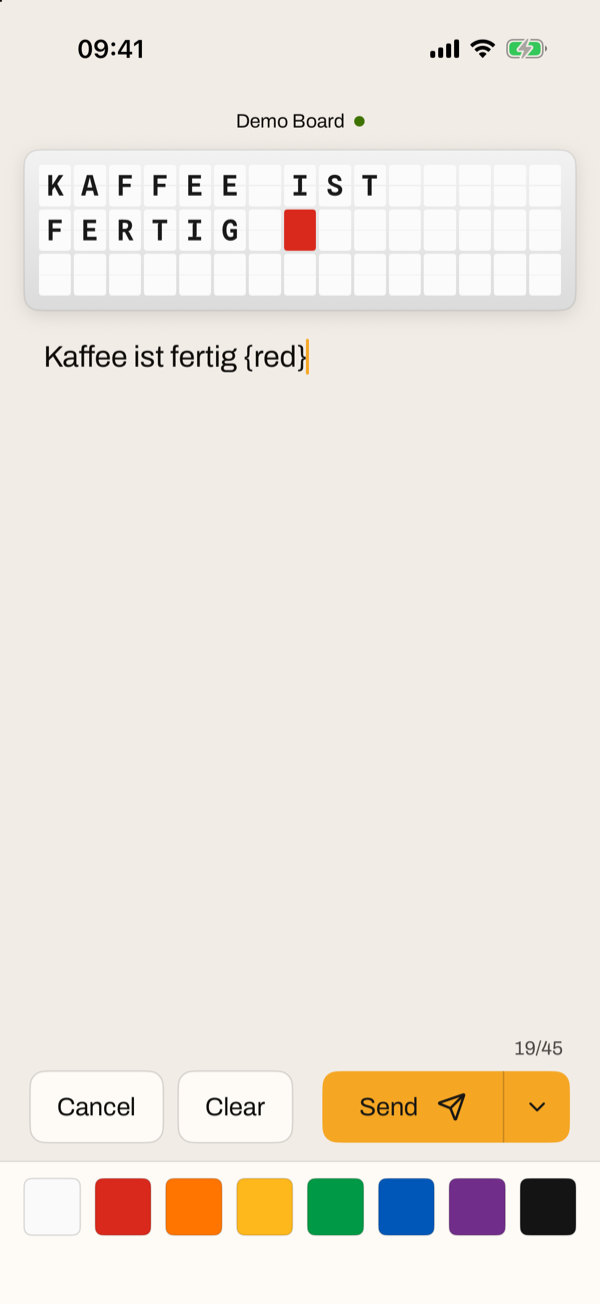
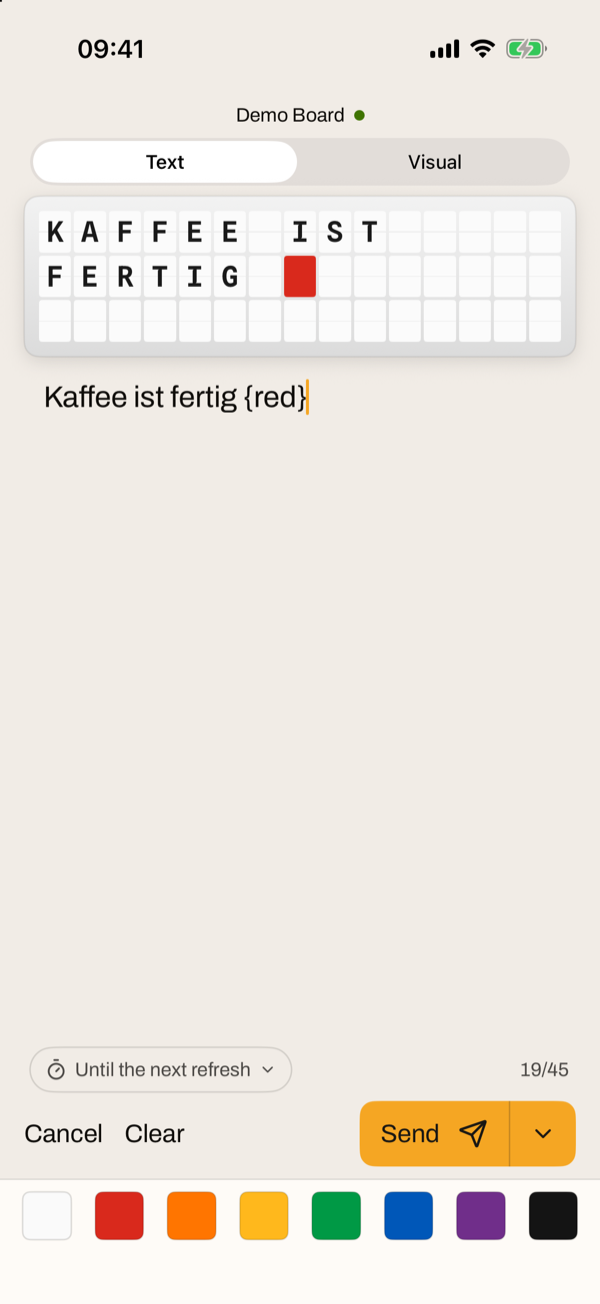
Compose fits above the keyboard: one row for Cancel, Clear and Send, how long it shows beside the count
The board keeps its size, the text gives way; the header and the colours
are tighter.

Claude-Session: https://claude.ai/code/session_01FXXeyGX9nkbXjdAycGNCsJ

Changed region(s): [[0.06, 0.0613, 0.96, 0.3374], [0.03, 0.7975, 0.96, 0.9509], [0.03, 0.9202, 0.06, 0.9509]]

diff --git a/FiestaBoard/ComposeView.swift b/FiestaBoard/ComposeView.swift
@@ -108,7 +108,7 @@ struct ComposeView: View {
             }
             .font(Style.font(.footnote))
             .foregroundStyle(Style.ink)
-            .padding(.top, 12)
+            .padding(.top, 8)
 
             Picker("Mode", selection: Binding(get: { mode }, set: switchMode)) {
                 Text("Text").tag(Mode.text)
@@ -116,7 +116,7 @@ struct ComposeView: View {
             }
             .pickerStyle(.segmented)
             .padding(.horizontal, 20)
-            .padding(.vertical, 12)
+            .padding(.vertical, 8)
 
             switch mode {
             case .text:
@@ -125,31 +125,17 @@ struct ComposeView: View {
                 visualEditor
             }
 
-            durationChoice
-                .padding(.horizontal, 20)
-                .padding(.bottom, 10)
-
-            // In one row where the words fit, else Send across the width and the other two below it:
-            // German and French words are longer than English ones, and text can be larger.
-            ViewThatFits(in: .horizontal) {
-                HStack(spacing: 10) {
-                    cancelButton(wide: false)
-                    clearButton(wide: false)
-                    Spacer(minLength: 0)
-                    sendButton
-                }
-                VStack(spacing: 10) {
-                    sendButton
-                    HStack(spacing: 10) {
-                        cancelButton(wide: true)
-                        clearButton(wide: true)
-                    }
-                }
+            // One row, as little room as there is above the keyboard: the board and the text need it.
+            HStack(spacing: 14) {
+                cancelButton.fixedSize()
+                clearButton.fixedSize()
+                Spacer(minLength: 0)
+                sendButton
             }
             .lineLimit(1)
             .dynamicTypeSize(...DynamicTypeSize.xxLarge)
-            .padding(.horizontal, 20)
-            .padding(.bottom, 12)
+            .padding(.horizontal, 16)
+            .padding(.bottom, 8)
 
             paletteBar
         }
@@ -172,7 +158,9 @@ struct ComposeView: View {
         let laid = Layout.grid(text, rows: shape.rows, cols: shape.cols)
         BoardView(characters: laid.grid, rows: shape.rows, cols: shape.cols, heart: shape.heart, white: shape.heart, led: shape.led)
             .padding(.horizontal)
-            .padding(.bottom, 12)
+            .padding(.bottom, 8)
+            // Its full size, the keyboard up or not: the text below gives way.
+            .layoutPriority(1)
 
         ZStack(alignment: .topLeading) {
             if text.isEmpty {
@@ -190,8 +178,10 @@ struct ComposeView: View {
         }
         .font(Style.font(.title3))
         .padding(.horizontal, 24)
+        .frame(minHeight: 56)
 
-        HStack {
+        HStack(spacing: 10) {
+            durationChoice
             if laid.overflow {
                 Label("Too long: the end is cut off", lucide: "triangle-alert")
                     .foregroundStyle(.orange)
@@ -199,15 +189,16 @@ struct ComposeView: View {
                 Label(problem, lucide: "circle-alert")
                     .foregroundStyle(.red)
             }
-            Spacer()
+            Spacer(minLength: 0)
             Text("\(Layout.tiles(of: text.replacingOccurrences(of: "\n", with: "")).count)/\(shape.rows * shape.cols)")
                 .monospacedDigit()
                 .foregroundStyle(Style.secondary)
         }
         .font(Style.font(.footnote))
+        .lineLimit(1)
         .dynamicTypeSize(...DynamicTypeSize.accessibility1)
-        .padding(.horizontal, 24)
-        .padding(.vertical, 8)
+        .padding(.horizontal, 20)
+        .padding(.vertical, 6)
     }
 
     // MARK: - Tile by tile
@@ -216,7 +207,8 @@ struct ComposeView: View {
     private var visualEditor: some View {
         BoardEditor(grid: grid, shape: shape, cursor: tool == .letters ? cursor : nil, begin: beginStroke, touch: touch)
             .padding(.horizontal)
-            .padding(.bottom, 12)
+            .padding(.bottom, 8)
+            .layoutPriority(1)
 
         HStack(spacing: 14) {
             Button(action: undo) {
@@ -241,11 +233,12 @@ struct ComposeView: View {
             }
             .font(Style.font(.footnote))
             .foregroundStyle(Style.muted)
+            .lineLimit(2)
             .frame(maxWidth: .infinity, alignment: .leading)
         }
         .foregroundStyle(Style.ink)
         .padding(.horizontal, 24)
-        .padding(.bottom, 8)
+        .padding(.bottom, 6)
         .background {
             // Takes the letters typed while the letter tool is chosen; never seen.
             TextField("", text: $letters)
@@ -261,6 +254,14 @@ struct ComposeView: View {
         }
 
         Spacer(minLength: 0)
+
+        HStack {
+            durationChoice
+            Spacer(minLength: 0)
+        }
+        .font(Style.font(.footnote))
+        .padding(.horizontal, 20)
+        .padding(.vertical, 6)
     }
 
     private func switchMode(_ new: Mode) {
@@ -411,7 +412,7 @@ struct ComposeView: View {
                                 RoundedRectangle(cornerRadius: 7).stroke(Style.primary, lineWidth: 2.5)
                             }
                         }
-                        .frame(height: 44)
+                        .frame(height: 38)
                 }
                 .accessibilityLabel(spoken)
                 .accessibilityAddTraits(mode == .visual && tool == .colour(code) ? .isSelected : [])
@@ -422,7 +423,7 @@ struct ComposeView: View {
             }
         }
         .padding(.horizontal, 12)
-        .padding(.vertical, 10)
+        .padding(.vertical, 6)
         .background(Style.card)
         .overlay(alignment: .top) { Rectangle().fill(Style.border).frame(height: 1) }
     }
@@ -434,10 +435,10 @@ struct ComposeView: View {
             LucideIcon(icon, size: 20, relativeTo: .body)
                 .foregroundStyle(tool == which ? Style.primaryInk : Style.ink)
                 .frame(maxWidth: .infinity)
-                .frame(height: 38)
+                .frame(height: 32)
                 .background(tool == which ? Style.primary : Style.fill, in: RoundedRectangle(cornerRadius: 5))
                 .padding(3)
-                .frame(height: 44)
+                .frame(height: 38)
         }
         .accessibilityLabel(label)
         .accessibilityAddTraits(tool == which ? .isSelected : [])
@@ -461,34 +462,39 @@ struct ComposeView: View {
                 }
             }
         } label: {
-            HStack(spacing: 8) {
-                LucideIcon("timer", size: 18, relativeTo: .subheadline)
+            // Small, beside the count: the default is said quietly, a while chosen stands out.
+            HStack(spacing: 5) {
+                LucideIcon("timer", size: 15, relativeTo: .footnote)
                 Text(Self.durations.first { $0.0 == minutes }?.1 ?? "Until the next refresh")
                     .lineLimit(1)
                     .minimumScaleFactor(0.8)
-                LucideIcon("chevron-down", size: 14, relativeTo: .subheadline)
+                LucideIcon("chevron-down", size: 12, relativeTo: .footnote)
             }
-            .font(Style.font(.subheadline))
+            .font(Style.font(.footnote))
             .foregroundStyle(minutes == nil ? Style.muted : Style.ink)
-            .padding(.horizontal, 14)
-            .frame(height: 36)
+            .padding(.horizontal, 10)
+            .frame(height: 30)
             .background(minutes == nil ? Color.clear : Style.fill, in: Capsule())
             .overlay(Capsule().stroke(Style.border, lineWidth: 1))
+            .contentShape(Capsule())
         }
-        .frame(maxWidth: .infinity, alignment: .leading)
         .accessibilityLabel("Show")
     }
 
-    private func cancelButton(wide: Bool) -> some View {
+    private var cancelButton: some View {
         Button {
             dismiss()
         } label: {
-            Text("Cancel").secondaryButton(wide: wide)
+            Text("Cancel")
+                .font(Style.font(.body))
+                .foregroundStyle(Style.ink)
+                .frame(minHeight: 44)
+                .contentShape(Rectangle())
         }
         .buttonStyle(.plain)
     }
 
-    private func clearButton(wide: Bool) -> some View {
+    private var clearButton: some View {
         Button {
             switch mode {
             case .text:
@@ -499,7 +505,11 @@ struct ComposeView: View {
                 cursor = tool == .letters ? Cell(row: 0, col: 0) : nil
             }
         } label: {
-            Text("Clear").secondaryButton(wide: wide)
+            Text("Clear")
+                .font(Style.font(.body))
+                .foregroundStyle(Style.ink)
+                .frame(minHeight: 44)
+                .contentShape(Rectangle())
         }
         .buttonStyle(.plain)
         .disabled(isEmpty)
@@ -523,14 +533,13 @@ struct ComposeView: View {
                         .labelStyle(SendLabelStyle())
                     }
                 }
-                .padding(.horizontal, 22)
-                .frame(maxWidth: .infinity)
-                .frame(height: 48)
+                .padding(.horizontal, 14)
+                .frame(height: 44)
                 .contentShape(Rectangle())
             }
             .buttonStyle(.plain)
             .disabled(sending || isEmpty)
-            Rectangle().fill(Style.primaryInk.opacity(0.2)).frame(width: 1, height: 48)
+            Rectangle().fill(Style.primaryInk.opacity(0.2)).frame(width: 1, height: 44)
             Menu {
                 Button {
                     switch mode {
@@ -544,7 +553,7 @@ struct ComposeView: View {
                 .disabled(isEmpty)
             } label: {
                 LucideIcon("chevron-down", size: 18, relativeTo: .footnote)
-                    .frame(width: 44, height: 48)
+                    .frame(width: 44, height: 44)
             }
             .accessibilityLabel("More ways to send")
         }

diff --git a/README.md b/README.md
@@ -22,7 +22,7 @@
   &nbsp;
   <picture>
     <source media="(prefers-color-scheme: dark)" srcset="docs/screenshots/compose-dark.png">
-    <img src="docs/screenshots/compose-light.png" alt="Writing a message: the board above showing where the text lands, the text, 19/45 tiles, Cancel, Clear and the orange Send, and the colour tiles" width="200">
+    <img src="docs/screenshots/compose-light.png" alt="Writing a message: the board above showing where the text lands, the text, how long it shows and 19/45 tiles, Cancel, Clear and the orange Send in one row, and the colour tiles" width="200">
   </picture>
   &nbsp;
   <picture>
@@ -52,7 +52,7 @@
 
 **Tile by tile.** Switch from **Text** to **Visual** and the board is your canvas: choose a colour or the eraser and tap or drag across the tiles, or choose the letters, tap a tile and type from there — backspace goes back, return to the next row. Undo and redo as you go. What you wrote as text carries over, and back. A visual message is sent tile for tile, exactly as drawn; a visual draft opens visually again, and so does a message copied from what the board showed.
 
-**For a while, then the schedule again.** A message stays until the board's next refresh — the next page of its schedule or carousel — unless you choose, above Send, to show it for 15 minutes, an hour, 4 or 8 hours. It then holds against the schedule, and the board goes back to it by itself once the time is up; the live card says until when, and **Back to the schedule** ends it sooner.
+**For a while, then the schedule again.** A message stays until the board's next refresh — the next page of its schedule or carousel — unless you choose, beside the tile count, to show it for 15 minutes, an hour, 4 or 8 hours. It then holds against the schedule, and the board goes back to it by itself once the time is up; the live card says until when, and **Back to the schedule** ends it sooner.
 
 **All your boards.** Every display your FiestaBoard drives — a split-flap board, an LED panel such as a pixel clock — each drawn as it looks, picked in the row of boards on top. History is per board; Favorites and Drafts are the same whichever board is chosen, and go to any of them, laid out anew for its size.
 
